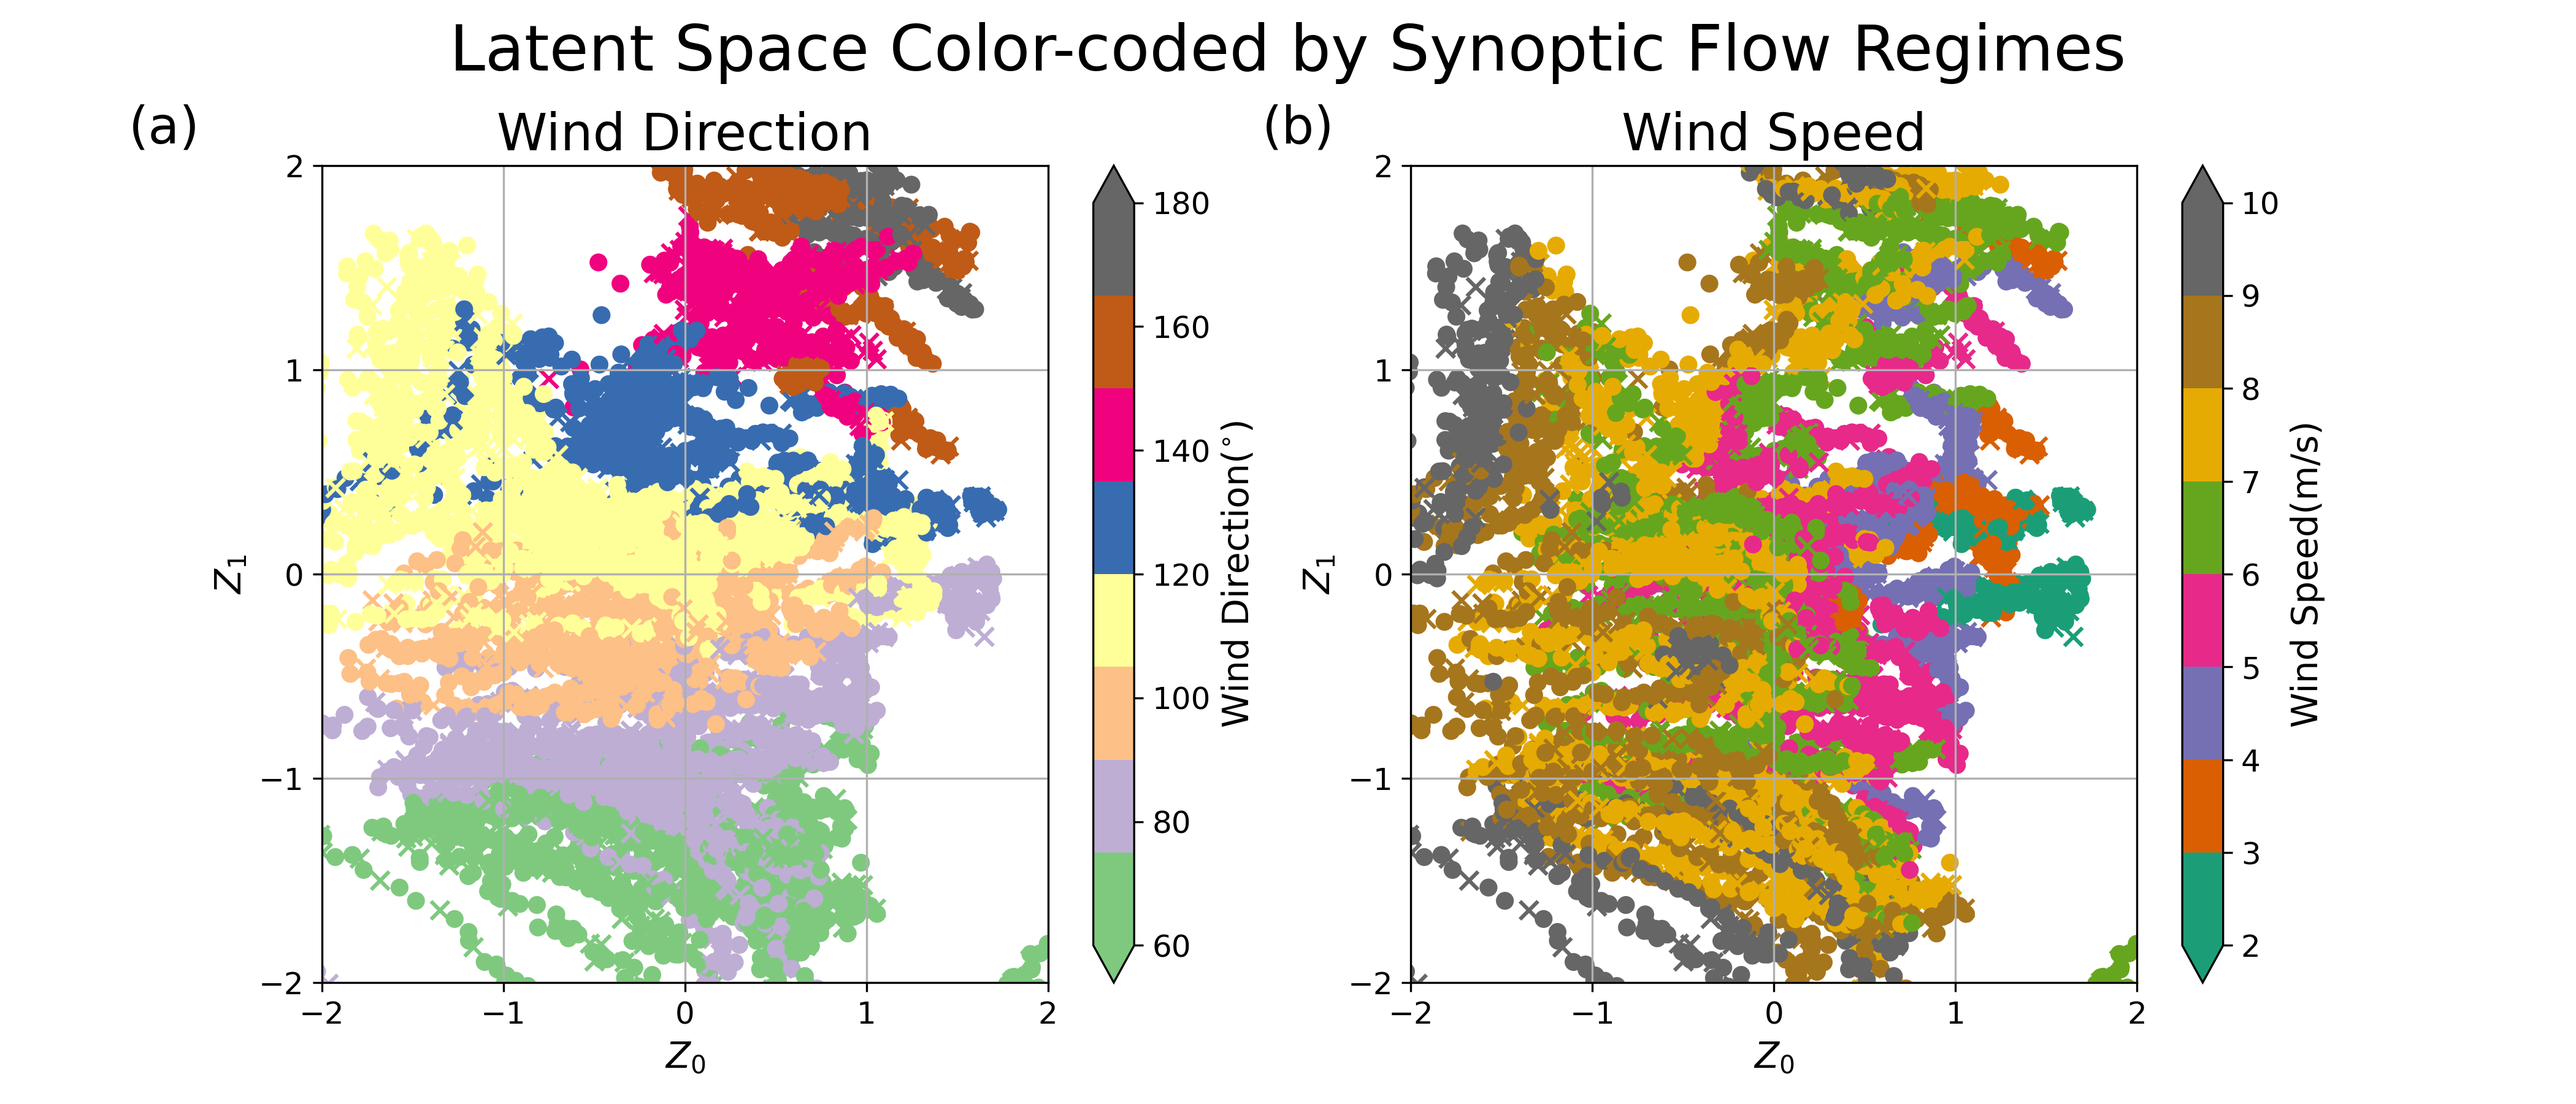
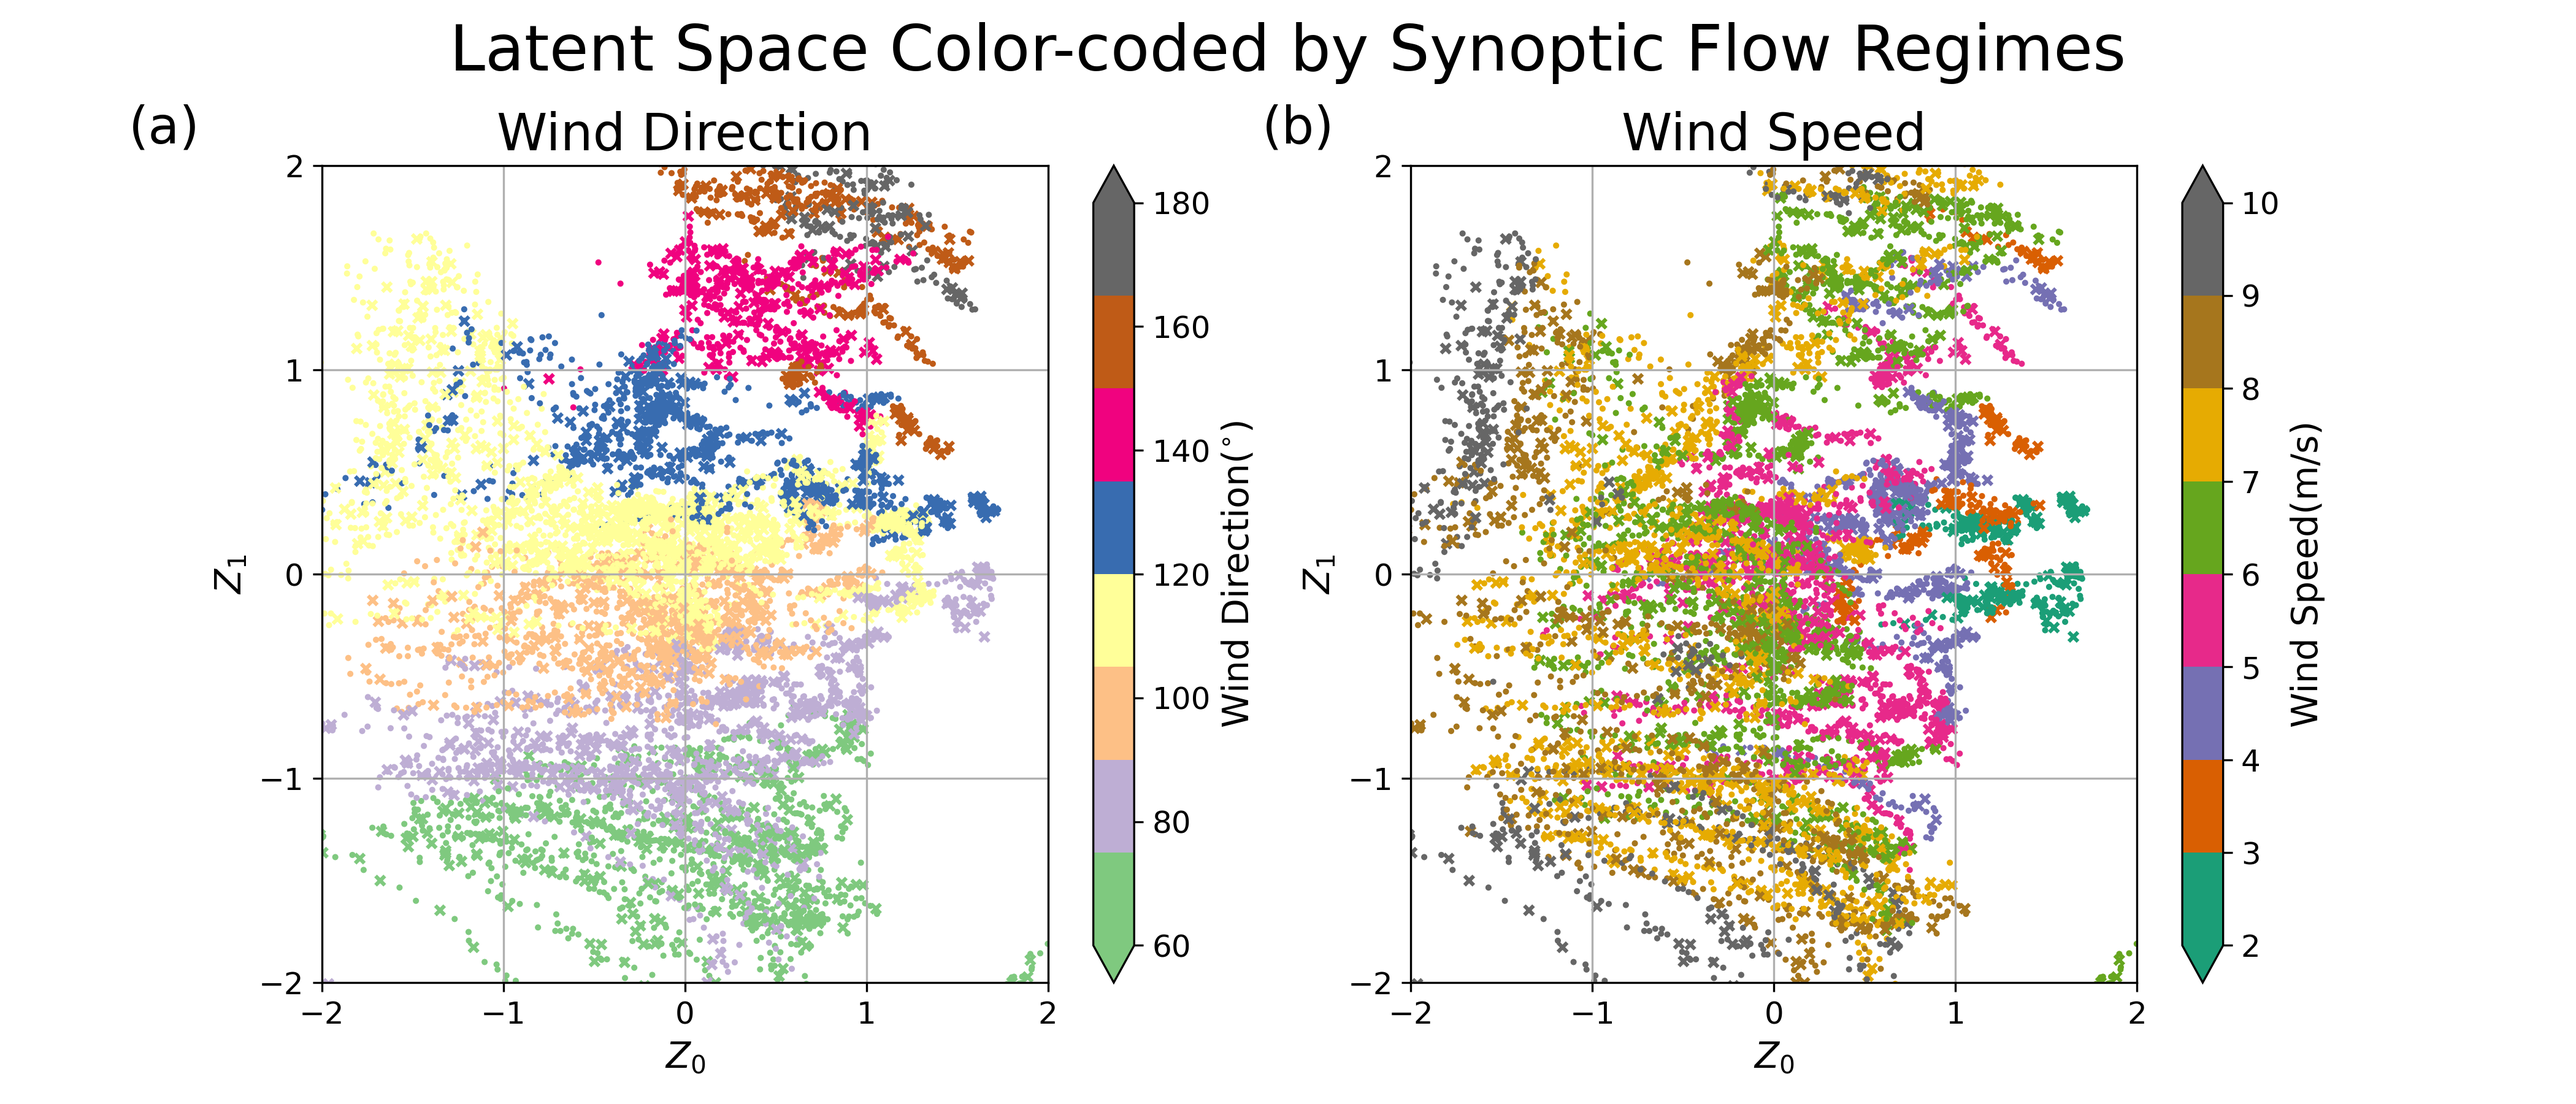
revised fig7

diff --git a/fig7_physical_latent_space.py b/fig7_physical_latent_space.py
@@ -14,8 +14,8 @@ pltCfg={'WD':['Wind Direction','Wind Direction($^{\circ}$)'],
 
 def plot_mu(plt,ax,lbl,var,mu,testing,training,limit_value,vmin,vmax,cmap):    
     for tt in range(nt):
-      plt.scatter(mu[train_cases[tt],tt,0],mu[train_cases[tt],tt,1],c=var[train_cases[tt]],marker='o',vmin=vmin,vmax=vmax,cmap=cmap)
-      plt.scatter(mu[test_cases[tt],tt,0],mu[test_cases[tt],tt,1],c=var[test_cases[tt]],s=50,marker='x',vmin=vmin,vmax=vmax,cmap=cmap)
+      plt.scatter(mu[train_cases[tt],tt,0],mu[train_cases[tt],tt,1],c=var[train_cases[tt]],s=8,marker='.',vmin=vmin,vmax=vmax,cmap=cmap)
+      plt.scatter(mu[test_cases[tt],tt,0],mu[test_cases[tt],tt,1],c=var[test_cases[tt]],s=13,marker='x',vmin=vmin,vmax=vmax,cmap=cmap)
     cb=plt.colorbar(extend='both')
     cb.set_label(pltCfg[lbl][1],fontsize=14)
     plt.grid(True)
